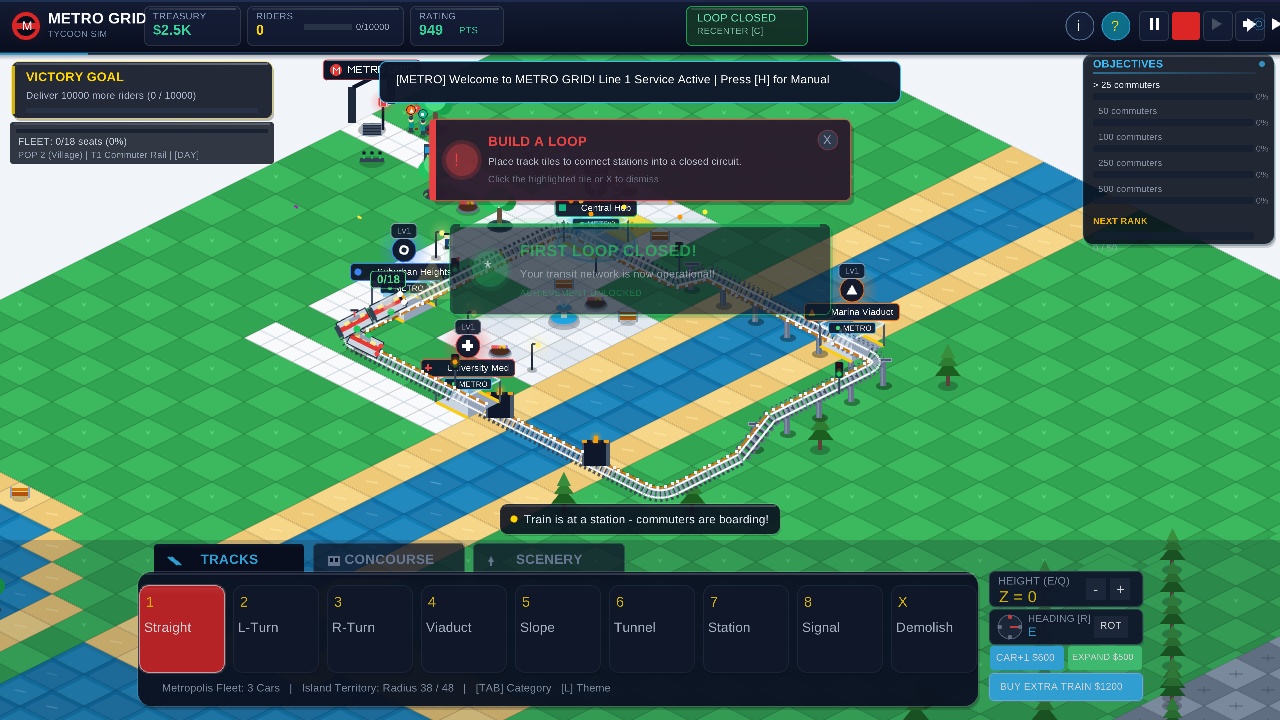
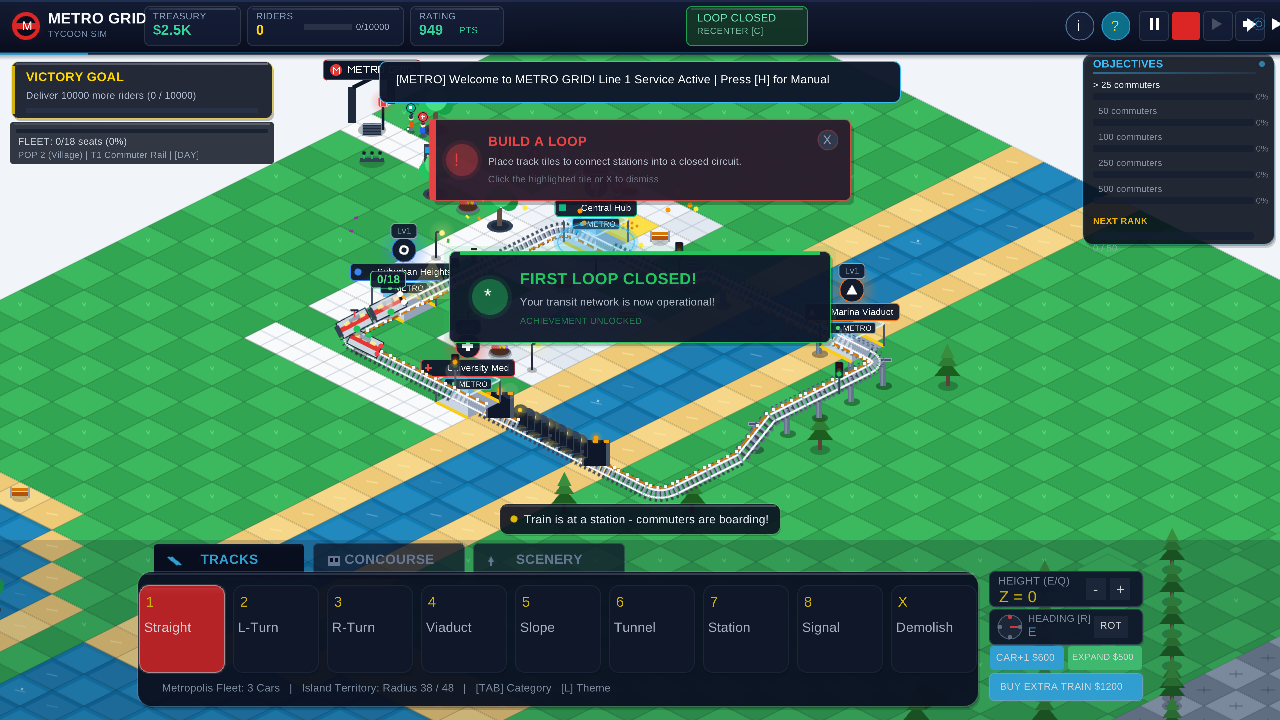
Loop 77: Subterranean subway tunnel tubes with vault casing, interior work lighting, and resonant rolling echo

Changed region(s): [[0.3438, 0.3056, 0.6562, 0.55], [0.375, 0.55, 0.4688, 0.6417], [0.3125, 0.1222, 0.3438, 0.1833]]

diff --git a/raylib/src/track.cpp b/raylib/src/track.cpp
@@ -75,8 +75,8 @@ void TrackSystem::InitDefaultCircuit() {
 
     // 16. Underground Subway Tunnel Entry
     AddPiece(14, 16, 0, TRACK_TUNNEL_PORTAL, DIR_EAST, DIR_WEST, lineCol);
-    AddPiece(13, 16, 0, TRACK_STRAIGHT, DIR_EAST, DIR_WEST, lineCol);
-    AddPiece(12, 16, 0, TRACK_STRAIGHT, DIR_EAST, DIR_WEST, lineCol);
+    AddPiece(13, 16, 0, TRACK_TUNNEL, DIR_EAST, DIR_WEST, lineCol);
+    AddPiece(12, 16, 0, TRACK_TUNNEL, DIR_EAST, DIR_WEST, lineCol);
     AddPiece(11, 16, 0, TRACK_TUNNEL_PORTAL, DIR_EAST, DIR_WEST, lineCol);
 
     // 17. University Med Center Station [Cross - Hospital & Campus]
@@ -843,6 +843,43 @@ void TrackSystem::DrawTunnelPortal(const TrackNode& node, Vector2 camOffset, flo
     DrawCircleGradient(Vector2{center.x, center.y - portalH - 2.0f * zoom}, 7.0f * zoom, Color{245, 158, 11, 140}, Color{245, 158, 11, 0});
 }
 
+void TrackSystem::DrawSubwayTunnel(const TrackNode& node, Vector2 camOffset, float zoom) {
+    if (node.splinePoints.empty()) return;
+
+    // Arched concrete subway tube vault casing
+    float tubeW = 16.0f * zoom;
+    float tubeH = 16.0f * zoom;
+    Color concreteRing = Color{51, 65, 85, 240};
+    Color innerVoid = Color{15, 23, 42, 210};
+    Color workLamp = Color{250, 204, 21, 255};
+    Color cableTray = Color{56, 189, 248, 200};
+
+    // Draw tunnel concrete vault arches along the spline segments
+    for (size_t i = 0; i < node.splinePoints.size() - 1; i += 3) {
+        Vector3 pt = node.splinePoints[i];
+        Vector2 s = Iso::GridToScreen(pt.x, pt.y, pt.z, camOffset, zoom);
+
+        // Arched subterranean tunnel tube cutaway
+        DrawRectangle((int)(s.x - tubeW * 0.5f), (int)(s.y - tubeH), (int)tubeW, (int)tubeH, innerVoid);
+        DrawRectangleLines((int)(s.x - tubeW * 0.5f), (int)(s.y - tubeH), (int)tubeW, (int)tubeH, concreteRing);
+
+        // Vaulted arch ceiling crown
+        DrawCircleSector(Vector2{s.x, s.y - tubeH}, tubeW * 0.5f, 180.0f, 360.0f, 8, concreteRing);
+
+        // Utility wall cable conduit line
+        DrawLineEx({s.x - tubeW * 0.45f, s.y - tubeH * 0.5f}, {s.x - tubeW * 0.45f, s.y - tubeH * 0.2f}, 1.2f * zoom, cableTray);
+
+        // Warm yellow work light lamp on ceiling
+        if (i % 6 == 0) {
+            Vector2 lampPos = {s.x, s.y - tubeH - 2.0f * zoom};
+            DrawCircle((int)lampPos.x, (int)lampPos.y, 2.0f * zoom, workLamp);
+            DrawCircleGradient(lampPos, 8.0f * zoom, Color{250, 204, 21, 100}, Color{250, 204, 21, 0});
+            // Track ground puddle glow
+            DrawEllipse((int)s.x, (int)s.y, 6.0f * zoom, 3.0f * zoom, Color{250, 204, 21, 40});
+        }
+    }
+}
+
 void TrackSystem::DrawSinglePiece(const TrackNode& node, Vector2 camOffset, float zoom) {
     if (node.splinePoints.empty()) return;
 
@@ -935,9 +972,11 @@ void TrackSystem::DrawSinglePiece(const TrackNode& node, Vector2 camOffset, floa
         DrawSignalMast(node, camOffset, zoom);
     }
 
-    // 7. Draw Subway Tunnel Portal if tunnel
+    // 7. Draw Subway Tunnel Portal or Tube if tunnel
     if (node.type == TRACK_TUNNEL_PORTAL) {
         DrawTunnelPortal(node, camOffset, zoom);
+    } else if (node.type == TRACK_TUNNEL) {
+        DrawSubwayTunnel(node, camOffset, zoom);
     }
 }
 

diff --git a/raylib/src/audio.cpp b/raylib/src/audio.cpp
@@ -321,6 +321,23 @@ void Init() {
         sounds[SFX_THUNDER_ROLL] = CreateProceduralSound(buf, sr);
     }
 
+    // 20. SFX_TUNNEL_REVERB: Resonant subway tunnel rolling wheel echo (0.42s)
+    {
+        int n = (int)(sr * 0.42f);
+        std::vector<float> buf(n);
+        for (int i = 0; i < n; ++i) {
+            float t = (float)i / sr;
+            float env = sinf(t / 0.42f * PI);
+            // Low resonant hum + comb-filtered steel wheel clatter
+            float res1 = sinf(2.0f * PI * 185.0f * t);
+            float res2 = sinf(2.0f * PI * 310.0f * t) * 0.4f;
+            float rattle = sinf(2.0f * PI * 65.0f * t) * 0.6f;
+            float noise = (((float)rand() / RAND_MAX) * 2.0f - 1.0f) * 0.3f;
+            buf[i] = (res1 * 0.4f + res2 + rattle + noise) * env * 0.45f;
+        }
+        sounds[SFX_TUNNEL_REVERB] = CreateProceduralSound(buf, sr);
+    }
+
     initialized = true;
 }
 

diff --git a/raylib/src/game.cpp b/raylib/src/game.cpp
@@ -1841,6 +1841,20 @@ void Game::Update(float dt) {
         fareRevenue += fareN;
     }
 
+    // Subway tunnel resonant echo audio
+    static float tunnelSoundTimer = 0.0f;
+    tunnelSoundTimer += dt;
+    Vector3 locPos = train.GetLocomotivePos();
+    int tgx = (int)roundf(locPos.x);
+    int tgy = (int)roundf(locPos.y);
+    const TrackNode* tNode = tracks.GetPiece(tgx, tgy);
+    if (tNode && (tNode->type == TRACK_TUNNEL || tNode->type == TRACK_TUNNEL_PORTAL) && train.GetSpeedKmh() > 10.0f) {
+        if (tunnelSoundTimer > 1.2f) {
+            AudioManager::Play(SFX_TUNNEL_REVERB, 0.48f);
+            tunnelSoundTimer = 0.0f;
+        }
+    }
+
     if (delivered > 0) {
         economy.totalDelivered += delivered;
         bestSessionRiders = std::max(bestSessionRiders, economy.totalDelivered);

diff --git a/raylib/src/common.hpp b/raylib/src/common.hpp
@@ -143,6 +143,7 @@ enum TrackType {
     TRACK_VIADUCT_ELEVATED,// Elevated concrete SkyTrain viaduct (+1 Z)
     TRACK_VIADUCT_SLOPE,   // Viaduct ramp descending from elevated to surface (-1 Z)
     TRACK_TUNNEL_PORTAL,   // Arched concrete subway tunnel portal into underground
+    TRACK_TUNNEL,          // Subterranean subway tunnel: arched concrete tube with utility lighting
     TRACK_STATION,         // Station Platform: Island platform with glass canopy, LED PIDS, PSDs
     TRACK_SIGNAL           // Track segment equipped with 3-aspect wayside signaling mast
 };

diff --git a/raylib/src/audio.hpp b/raylib/src/audio.hpp
@@ -21,7 +21,8 @@ enum SfxType {
     SFX_OCEAN_AMBIENT,      // Gentle rolling ocean surf swell
     SFX_NIGHT_CRICKET,      // Nighttime crickets chirping
     SFX_MORNING_BIRD,       // Cheerful morning park songbird chirp
-    SFX_THUNDER_ROLL        // Distant rolling atmospheric thunder rumble
+    SFX_THUNDER_ROLL,       // Distant rolling atmospheric thunder rumble
+    SFX_TUNNEL_REVERB       // Hollow resonant subway tunnel rolling wheel echo
 };
 
 namespace AudioManager {

diff --git a/raylib/src/track.hpp b/raylib/src/track.hpp
@@ -105,5 +105,6 @@ private:
     void DrawPlatformCanopy(const TrackNode& node, Vector2 camOffset, float zoom);
     void DrawSignalMast(const TrackNode& node, Vector2 camOffset, float zoom);
     void DrawTunnelPortal(const TrackNode& node, Vector2 camOffset, float zoom);
+    void DrawSubwayTunnel(const TrackNode& node, Vector2 camOffset, float zoom);
 };
 
